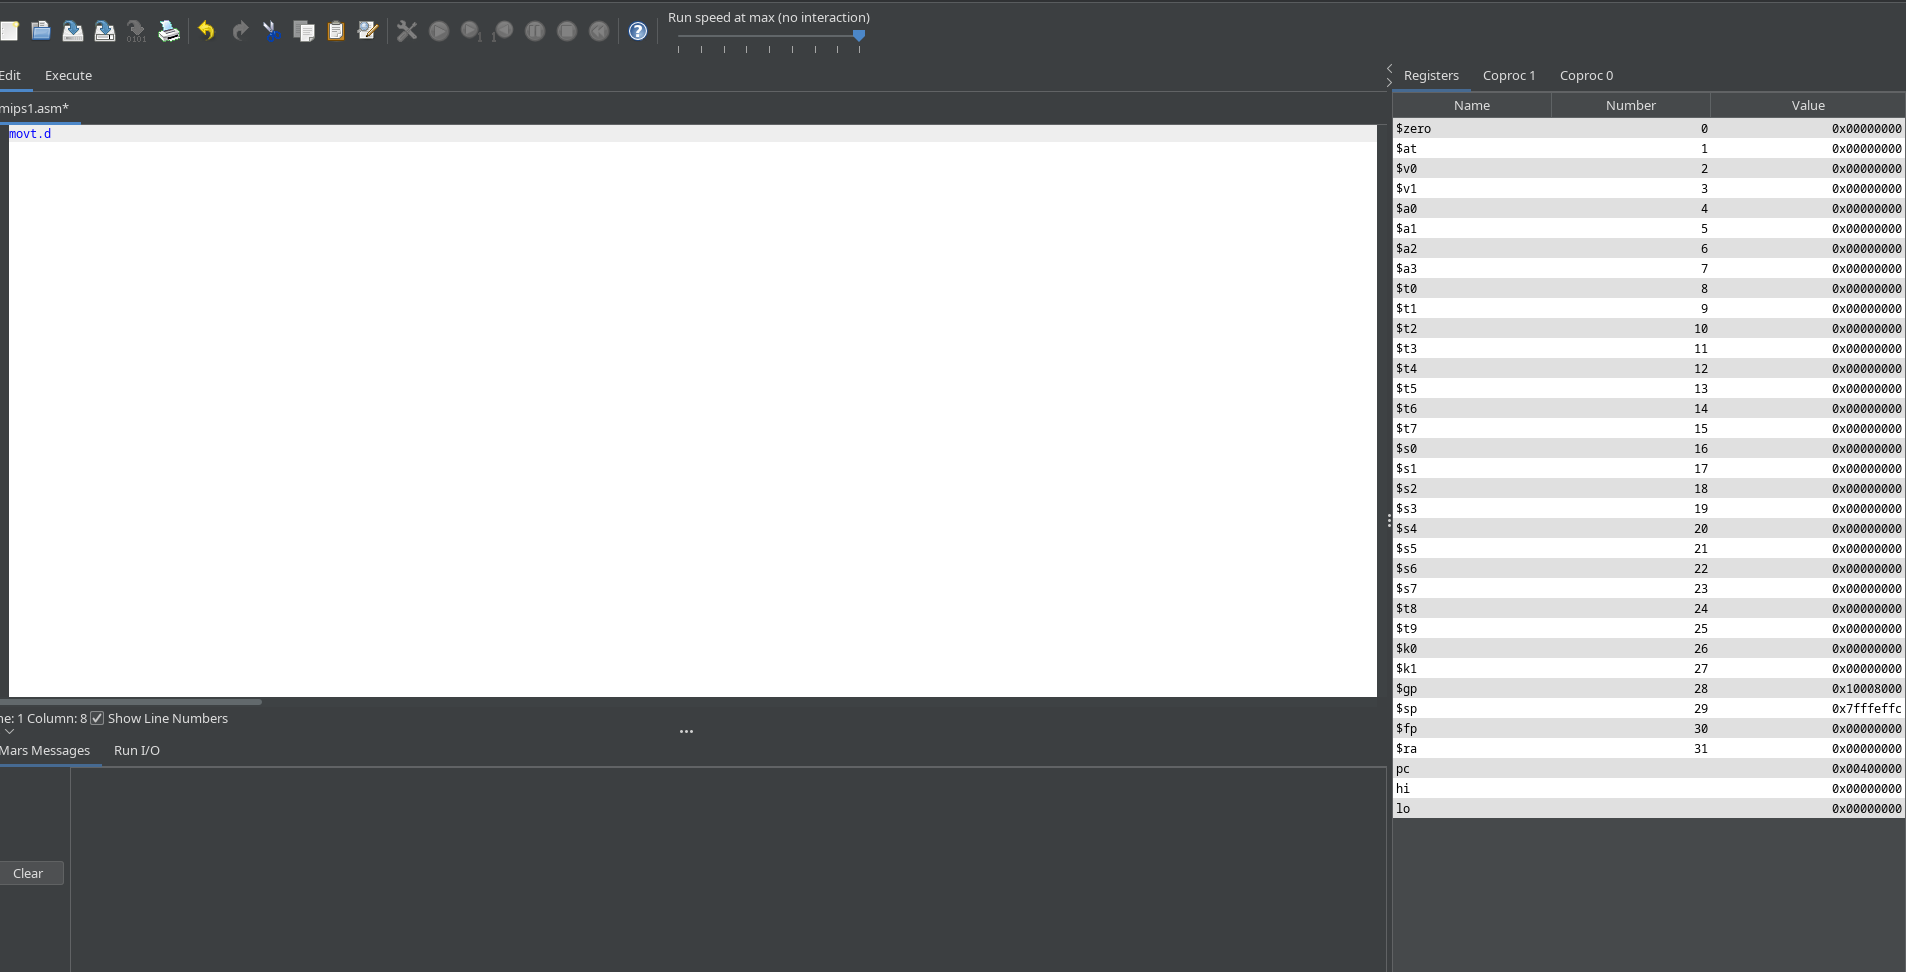
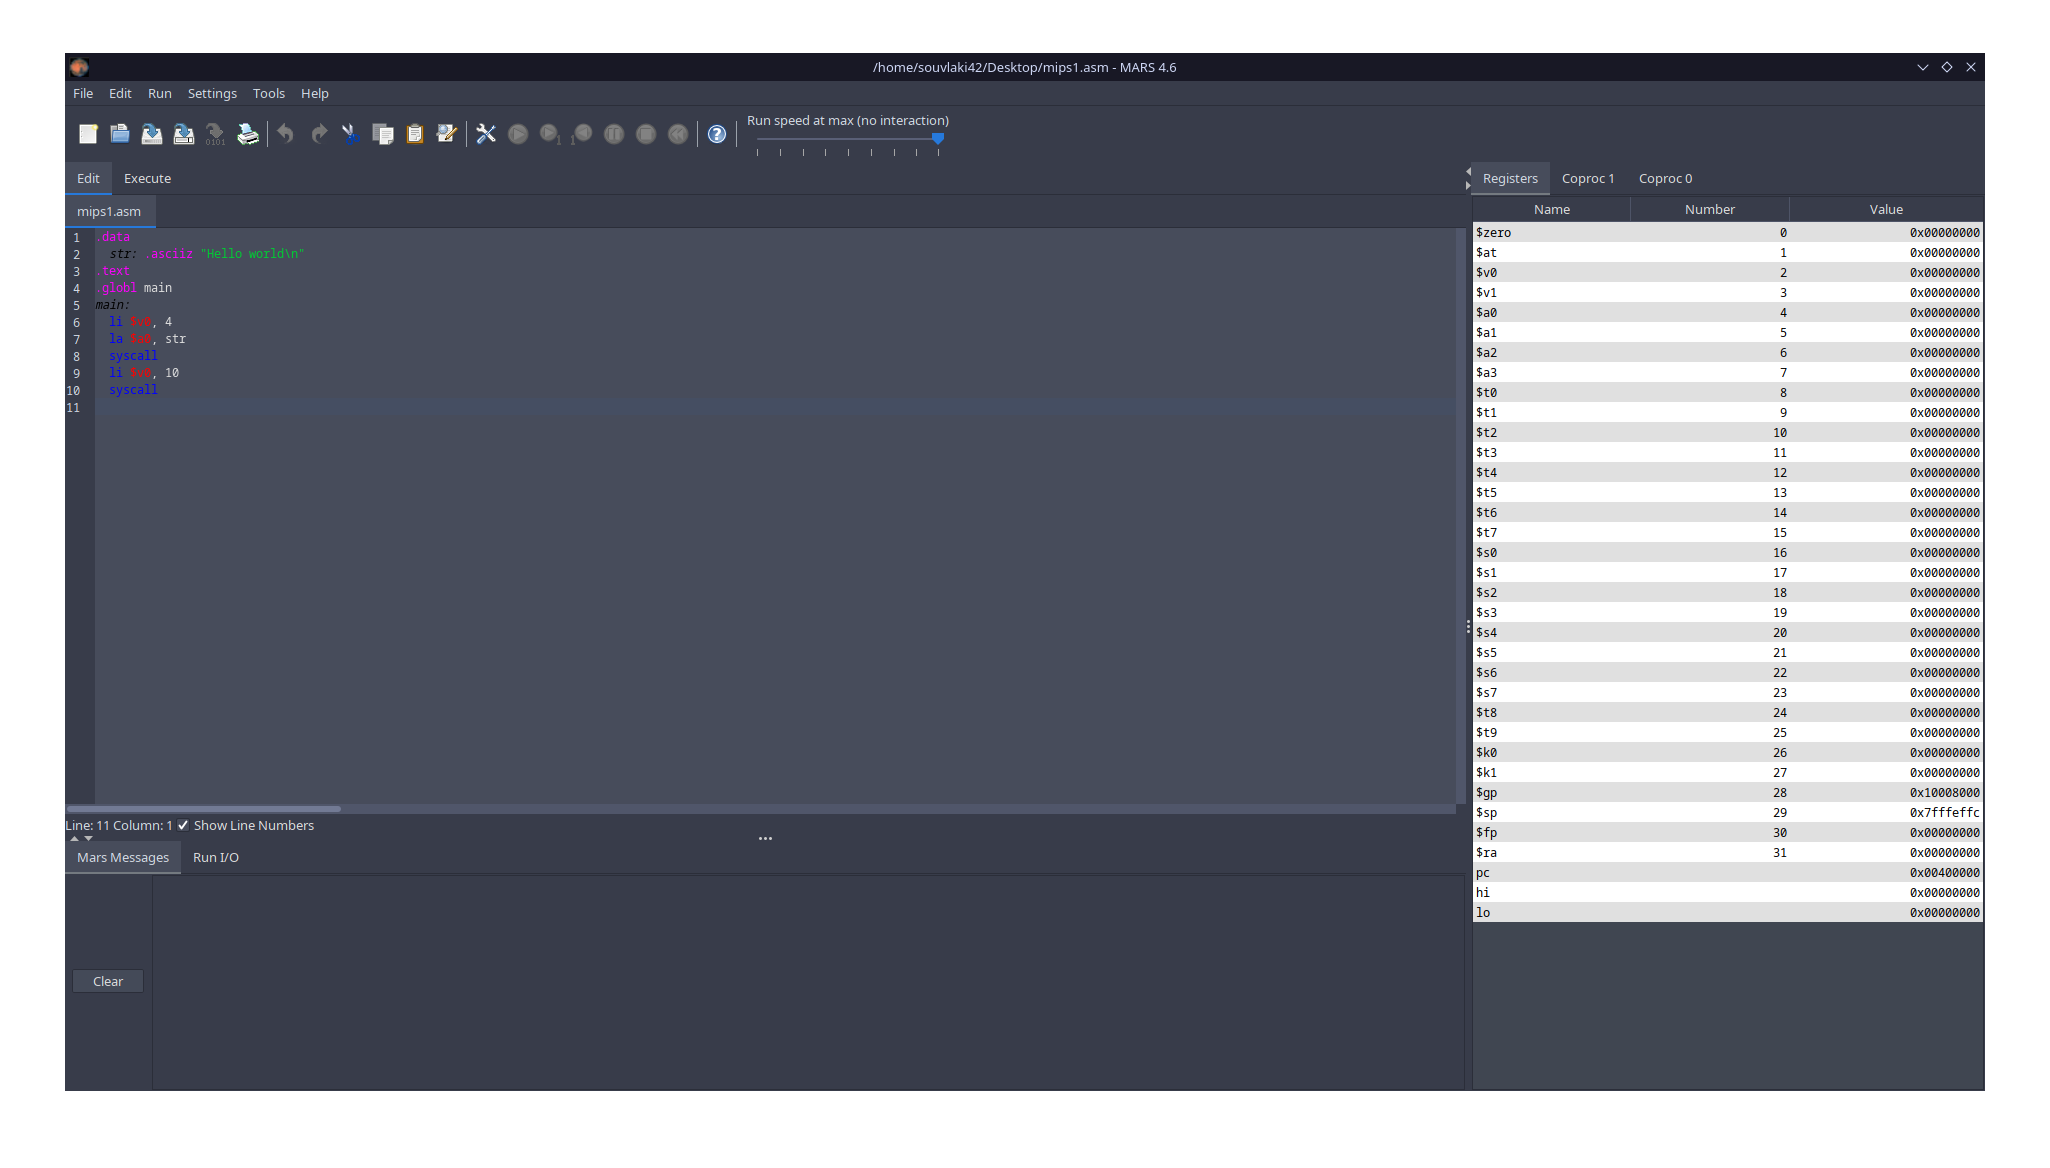
chore: updated pr list and screenshot

diff --git a/README.md b/README.md
@@ -25,7 +25,8 @@ This fork includes [Flatlaf](https://www.formdev.com/flatlaf/) to allow for:
 - Native window decorations
 - High DPI displays
 - Automatic theme delection using [jSystemThemeDetector](https://github.com/Dansoftowner/jSystemThemeDetector)
-- And more...
+
+And more...
 
 ## List of merged upstream PRs and fixed issues
 
@@ -33,15 +34,17 @@ This fork includes [Flatlaf](https://www.formdev.com/flatlaf/) to allow for:
 - [dpetersanderson #4](https://github.com/dpetersanderson/MARS/pull/4)
 - [dpetersanderson @11](https://github.com/dpetersanderson/MARS/issues/11)
 - [dpetersanderson #24](https://github.com/dpetersanderson/MARS/pull/24)
+- [dpetersanderson #26](https://github.com/dpetersanderson/MARS/pull/26)
+- [dpetersanderson #27](https://github.com/dpetersanderson/MARS/pull/27)
 
 ## Screenshot
 
-![How the app looks like now](screenshot.png)
+![How the app looks like now](./screenshot.png)
 
 ## How to run
 
-First, Install Java 25 on your system. Then:
-On Linux or Mac, either use `./gradlew build` with `java -jar build/libs/Mars-4.6.jar` or `./gradlew run`
+First, Install Java 25 on your system. Then: \
+On Linux or Mac, either use `./gradlew build` with `java -jar build/libs/Mars-4.6.jar` or `./gradlew run` \
 On Windows, either use `./gradlew.bat build` with `java -jar build/libs/Mars-4.6.jar` or `./gradlew.bat run`
 
 ## Credits
